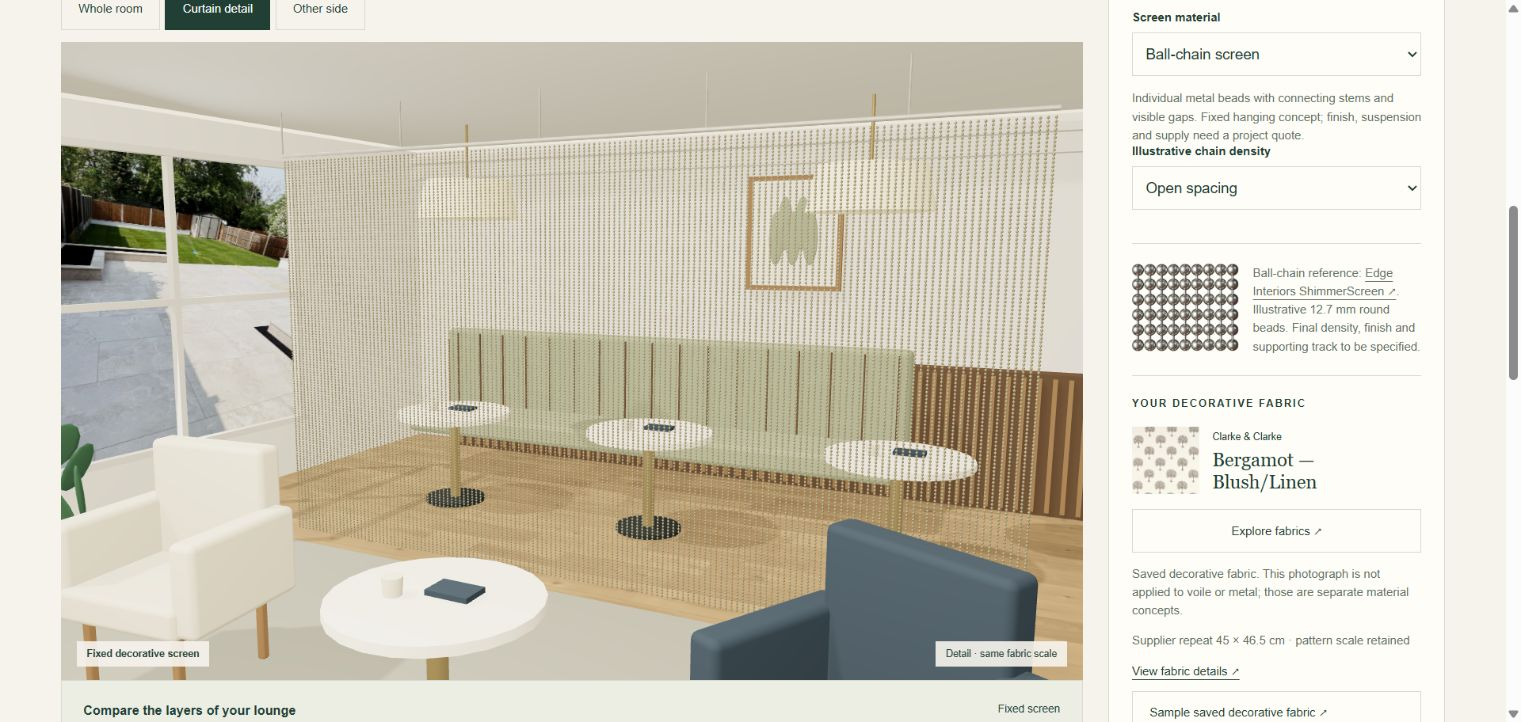
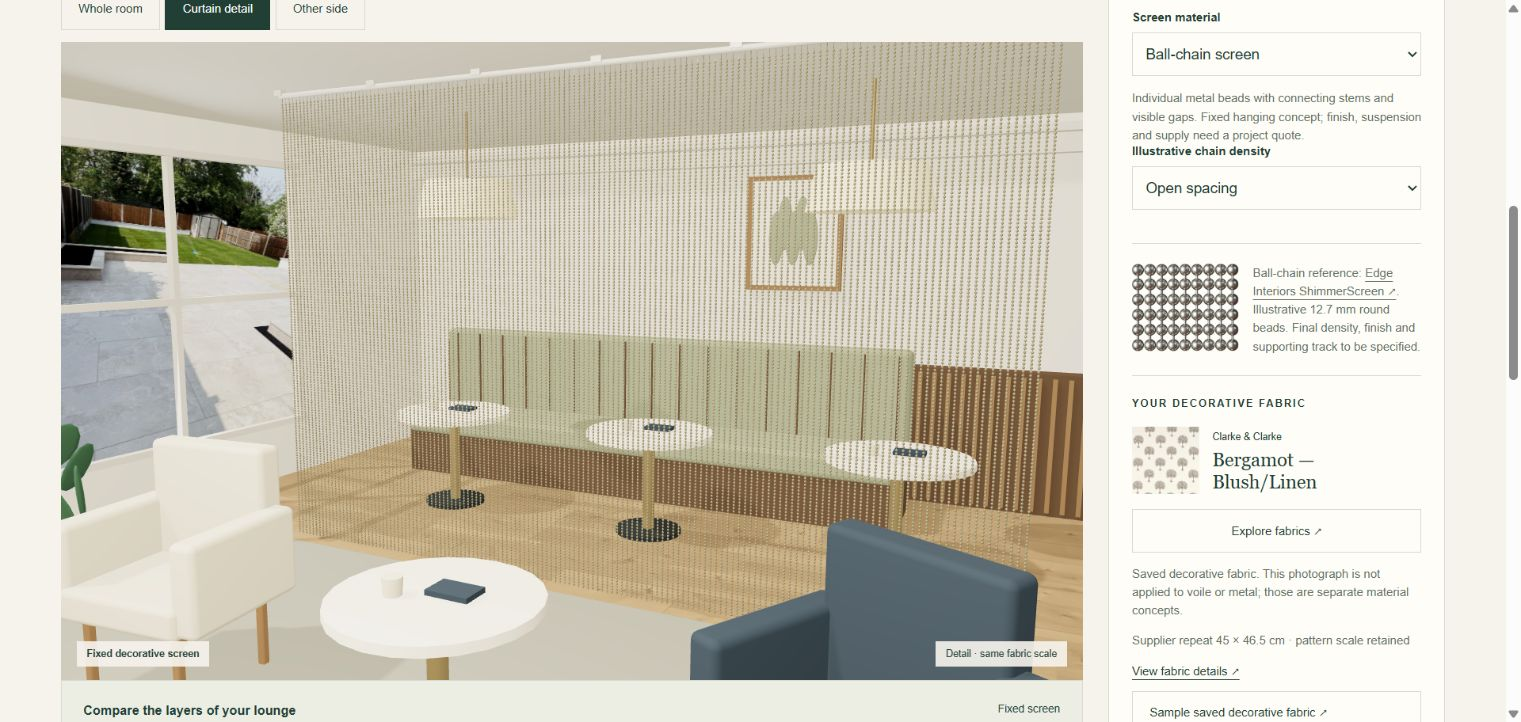
Anchor Beyond Windows curtains to ceiling tracks and floor

diff --git a/docs/curtains-beyond-windows.md b/docs/curtains-beyond-windows.md
@@ -61,3 +61,9 @@ Screenshots and browser readback accompany the PR. Browser viewport/CPU observat
 | Screens & Layers | [Lounge open](beyond-windows-screenshots/screens-open.jpg) | [Fabric screen closed](beyond-windows-screenshots/screens-closed.jpg) |
 
 [Double-faced reverse](beyond-windows-screenshots/double-faced-reverse.jpg) · [Ball-chain detail and supplier reference](beyond-windows-screenshots/ball-chain.jpg) · [Mobile layered preview](beyond-windows-screenshots/mobile-layers.jpg).
+
+## Installation correction after visual review
+
+The first preview left suspension rods below the ceiling and removed the room shell from the reverse view, making the curtains look unsupported. The revised model uses a shared ceiling/rail/heading/floor datum: short ceiling brackets meet the track, moving heading connections join the cloth to it, and the hem clears the floor by approximately 1.5 cm. Each layer has its own mounted route; metallic strands also join their carrier. Whole-room cameras are lower, and reverse views retain the ceiling and opposite room walls. Furniture feet, booth bases and pendant suspension were also brought into contact with their supporting surfaces.
+
+These are illustrative installation details, not a supplier fixing or structural specification. Existing pattern coordinates, movement, double-faced selection, fabric/quote integrations and the original five rooms remain unchanged. The PR screenshots have been refreshed for this correction.
